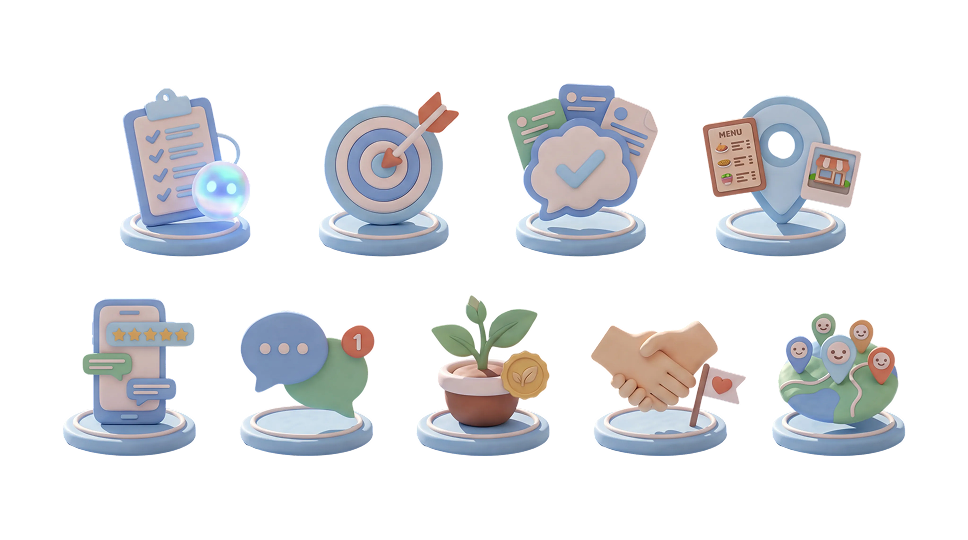
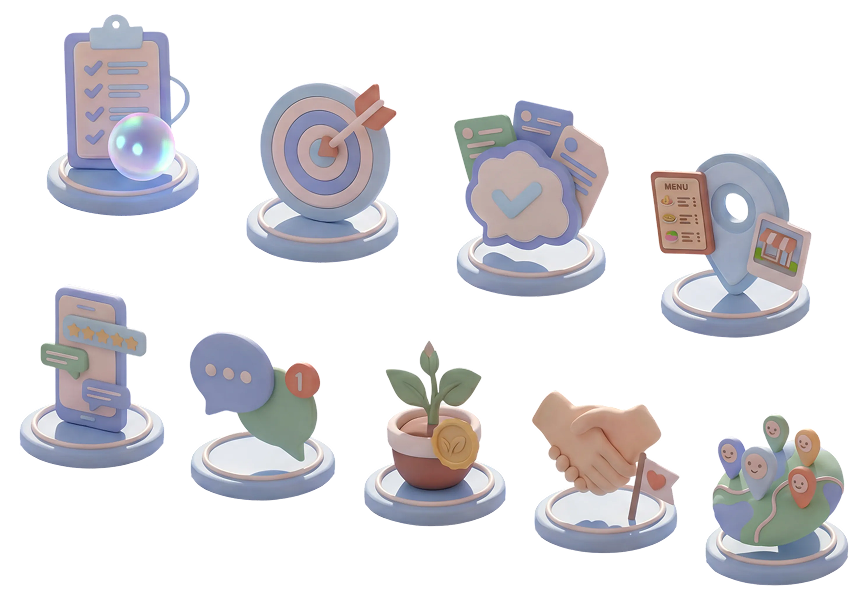
Fix: 로그인 api 연결 수정

diff --git a/apps/web/src/app/(auth)/login/page.tsx b/apps/web/src/app/(auth)/login/page.tsx
@@ -2,190 +2,158 @@
 
 import Image from "next/image";
 import Link from "next/link";
-import { signInWithPopup } from "firebase/auth";
+import { useState } from "react";
+import { signInWithPopup, signInWithEmailAndPassword } from "firebase/auth";
 import { auth, googleProvider } from "@/lib/firebase";
 import { useRouter } from "next/navigation";
 
 export default function LoginPage() {
   const router = useRouter();
 
-  const handleGoogleLogin = async () => {
-    try {
-      // 1) Firebase Google 로그인
-      const result = await signInWithPopup(auth, googleProvider);
+  const [email, setEmail] = useState("");
+  const [password, setPassword] = useState("");
+  const [loading, setLoading] = useState(false);
 
-      // 2) Firebase ID Token 얻기
+  /**
+   * Firebase 로그인 후 → 백엔드 인증 공통 처리
+   * (임시) 온보딩 분기 무시하고 무조건 메인으로 이동
+   */
+  const loginToBackend = async (idToken: string) => {
+    const res = await fetch(`${process.env.NEXT_PUBLIC_API_BASE_URL}/api/me`, {
+      method: "GET",
+      headers: {
+        Authorization: `Bearer ${idToken}`,
+      },
+    });
+
+    if (res.status === 401) {
+      console.error("401 UNAUTHORIZED: 토큰 없음/만료/검증 실패");
+      alert("인증에 실패했습니다. 다시 로그인해주세요.");
+      return;
+    }
+
+    const data = await res.json();
+    console.log("BACKEND RESPONSE:", data);
+
+    // ✅ (임시) 일단 되는지만 확인: 무조건 메인 페이지로
+    router.replace("/");
+  };
+
+  /**
+   * 이메일 로그인
+   */
+  const handleEmailLogin = async () => {
+    if (!email || !password) {
+      alert("이메일과 비밀번호를 입력해주세요.");
+      return;
+    }
+
+    try {
+      setLoading(true);
+
+      // 1) Firebase Email 로그인
+      const result = await signInWithEmailAndPassword(auth, email, password);
+
+      // 2) 토큰 발급
       const idToken = await result.user.getIdToken();
 
-      // 3) 백엔드 호출 (/api/me)
-      const res = await fetch(`${process.env.NEXT_PUBLIC_API_BASE_URL}/api/me`, {
-        method: "GET",
-        headers: {
-          Authorization: `Bearer ${idToken}`,
-        },
-      });
+      // 3) 백엔드 인증
+      await loginToBackend(idToken);
+    } catch (err: any) {
+      console.error("이메일 로그인 실패:", err);
 
-      // 4) 응답 처리
-      if (res.status === 401) {
-        console.error("401 UNAUTHORIZED: 토큰 없음/만료/검증 실패");
-        return;
-      }
+      if (err.code === "auth/user-not-found") alert("존재하지 않는 계정입니다.");
+      else if (err.code === "auth/wrong-password") alert("비밀번호가 틀렸습니다.");
+      else if (err.code === "auth/invalid-email") alert("이메일 형식이 올바르지 않습니다.");
+      else alert("로그인에 실패했습니다.");
+    } finally {
+      setLoading(false);
+    }
+  };
 
-      const data = await res.json();
-      console.log("BACKEND RESPONSE:", data);
+  /**
+   * 구글 로그인
+   */
+  const handleGoogleLogin = async () => {
+    try {
+      setLoading(true);
 
-      // 5) 임시 라우팅 (나중에 missing 기반 분기로 바꾸면 됨)
-      if (data?.missing?.includes("role")) router.push("/onboarding/role");
-      else router.push("/");
+      const result = await signInWithPopup(auth, googleProvider);
+      const idToken = await result.user.getIdToken();
+
+      await loginToBackend(idToken);
     } catch (err) {
       console.error("구글 로그인 실패:", err);
+      alert("구글 로그인에 실패했습니다.");
+    } finally {
+      setLoading(false);
     }
   };
 
   return (
-    <main
-      className="
-        min-h-[calc(100vh-70px)]
-        bg-[#FAFAFA]
-        flex justify-center
-        pt-10 md:pt-[153px]
-        pb-24 md:pb-[180px]
-        px-4
-      "
-    >
-      <section
-        className="
-          w-full max-w-[628px]
-          rounded-[28px] md:rounded-[40px]
-          bg-white
-          px-6 md:px-[60px]
-          pt-8 md:pt-[60px]
-          pb-10 md:pb-[70px]
-          relative
-        "
-        style={{
-          boxShadow: "0px 4px 4px 2px rgba(176, 201, 101, 0.2)",
-        }}
-      >
-        <h1 className="text-[20px] md:text-[25px] font-bold leading-[30px] md:leading-[35px] text-black">
-          로그인하고 편리하게
-          <br />
-          이용해보세요
-        </h1>
+      <main className="min-h-[calc(100vh-70px)] bg-[#FAFAFA] flex justify-center pt-10 md:pt-[153px] pb-24 md:pb-[180px] px-4">
+        <section
+            className="w-full max-w-[628px] rounded-[28px] md:rounded-[40px] bg-white px-6 md:px-[60px] pt-8 md:pt-[60px] pb-10 md:pb-[70px] relative"
+            style={{ boxShadow: "0px 4px 4px 2px rgba(176, 201, 101, 0.2)" }}
+        >
+          <h1 className="text-[20px] md:text-[25px] font-bold leading-[30px] md:leading-[35px] text-black">
+            로그인하고 편리하게
+            <br />
+            이용해보세요
+          </h1>
 
-        <div className="mt-10 md:mt-[94px] space-y-4 md:space-y-[18px]">
-          <input
-            type="text"
-            placeholder="아이디를 입력해 주세요"
-            className="
-              w-full h-[56px] md:h-[73px]
-              rounded-[16px] md:rounded-[20px]
-              border border-[#D9D9D9]
-              px-4 md:px-6
-              text-[16px] md:text-[18px] text-black
-              placeholder:text-[#BDBDBD]
-              outline-none
-              focus:border-[#B0C965]
-            "
-          />
-          <input
-            type="password"
-            placeholder="비밀번호를 입력해 주세요"
-            className="
-              w-full h-[56px] md:h-[73px]
-              rounded-[16px] md:rounded-[20px]
-              border border-[#D9D9D9]
-              px-4 md:px-6
-              text-[16px] md:text-[18px] text-black
-              placeholder:text-[#BDBDBD]
-              outline-none
-              focus:border-[#B0C965]
-            "
-          />
-        </div>
-
-        <div className="mt-4 md:mt-[18px] flex justify-end items-center gap-3 text-[13px] md:text-[15px] text-black">
-          <button type="button" className="hover:text-[#B0C965]">
-            아이디 찾기
-          </button>
-          <span>|</span>
-          <button type="button" className="hover:text-[#B0C965]">
-            비밀번호 찾기
-          </button>
-        </div>
-
-        {/* 버튼 */}
-        <div className="mt-8 md:mt-[47px] flex justify-center">
-          <button
-            type="button"
-            className="
-              w-full md:w-[477px]
-              h-[56px] md:h-[73px]
-              rounded-[16px] md:rounded-[20px]
-              text-[18px] md:text-[22px]
-              font-semibold text-[#2E2E2E]
-              bg-[linear-gradient(106deg,rgba(176,201,101,0.9)_13%,rgba(255,255,255,0.9)_127%)]
-              hover:opacity-90 transition
-            "
-          >
-            로그인
-          </button>
-        </div>
-
-        <div className="mt-4 md:mt-[24px] flex justify-center">
-          <button
-            type="button"
-            onClick={handleGoogleLogin}
-            className="
-              w-full md:w-[477px]
-              h-[56px] md:h-[73px]
-              rounded-[16px] md:rounded-[20px]
-              border border-[#BDBDBD]
-              bg-white
-              flex items-center justify-center gap-3 md:gap-4
-              hover:bg-[#FAFAFA]
-              transition
-            "
-          >
-            <Image
-              src="/images/google-icon.png"
-              alt="Google"
-              width={26}
-              height={26}
-              className="md:w-[30px] md:h-[30px]"
+          {/* 이메일 로그인 */}
+          <div className="mt-10 md:mt-[94px] space-y-4 md:space-y-[18px]">
+            <input
+                type="email"
+                placeholder="이메일을 입력해 주세요"
+                value={email}
+                onChange={(e) => setEmail(e.target.value)}
+                className="w-full h-[56px] md:h-[73px] rounded-[16px] md:rounded-[20px] border border-[#D9D9D9] px-4 md:px-6 text-[16px] md:text-[18px] text-black placeholder:text-[#BDBDBD] outline-none focus:border-[#B0C965]"
             />
-            <span className="text-[15px] md:text-[18px] font-medium text-black">
+            <input
+                type="password"
+                placeholder="비밀번호를 입력해 주세요"
+                value={password}
+                onChange={(e) => setPassword(e.target.value)}
+                className="w-full h-[56px] md:h-[73px] rounded-[16px] md:rounded-[20px] border border-[#D9D9D9] px-4 md:px-6 text-[16px] md:text-[18px] text-black placeholder:text-[#BDBDBD] outline-none focus:border-[#B0C965]"
+            />
+          </div>
+
+          {/* 로그인 버튼 */}
+          <div className="mt-8 md:mt-[47px] flex justify-center">
+            <button
+                type="button"
+                onClick={handleEmailLogin}
+                disabled={loading}
+                className="w-full md:w-[477px] h-[56px] md:h-[73px] rounded-[16px] md:rounded-[20px] text-[18px] md:text-[22px] font-semibold text-[#2E2E2E] bg-[linear-gradient(106deg,rgba(176,201,101,0.9)_13%,rgba(255,255,255,0.9)_127%)] hover:opacity-90 transition disabled:opacity-50"
+            >
+              {loading ? "로그인 중..." : "로그인"}
+            </button>
+          </div>
+
+          {/* 구글 로그인 */}
+          <div className="mt-4 md:mt-[24px] flex justify-center">
+            <button
+                type="button"
+                onClick={handleGoogleLogin}
+                disabled={loading}
+                className="w-full md:w-[477px] h-[56px] md:h-[73px] rounded-[16px] md:rounded-[20px] border border-[#BDBDBD] bg-white flex items-center justify-center gap-3 md:gap-4 hover:bg-[#FAFAFA] transition disabled:opacity-50"
+            >
+              <Image src="/images/google-icon.png" alt="Google" width={26} height={26} />
+              <span className="text-[15px] md:text-[18px] font-medium text-black">
               구글 계정으로 로그인하기
             </span>
-          </button>
-        </div>
+            </button>
+          </div>
 
-        <div className="mt-4 md:mt-[18px] text-center text-[13px] md:text-[15px] text-[#656565]">
-          아직 회원이 아니신가요?{" "}
-          <Link href="/signup" className="text-[#B0C965] font-bold hover:underline">
-            회원가입
-          </Link>
-        </div>
-      </section>
-
-      {/* 도움 요청하기 */}
-      <div className="fixed bottom-6 right-4 md:bottom-[44px] md:right-[64px]">
-        <button
-          type="button"
-          className="
-            w-[160px] md:w-[193px]
-            h-[60px] md:h-[74px]
-            rounded-[50px]
-            bg-[#E0F0AF]
-            shadow-[0px_2px_6px_rgba(0,0,0,0.15)]
-            text-[15px] md:text-[18px]
-            font-semibold text-[#585858]
-            hover:opacity-90 transition
-          "
-        >
-          도움 요청하기
-        </button>
-      </div>
-    </main>
+          <div className="mt-4 md:mt-[18px] text-center text-[13px] md:text-[15px] text-[#656565]">
+            아직 회원이 아니신가요?{" "}
+            <Link href="/signup" className="text-[#B0C965] font-bold hover:underline">
+              회원가입
+            </Link>
+          </div>
+        </section>
+      </main>
   );
 }
